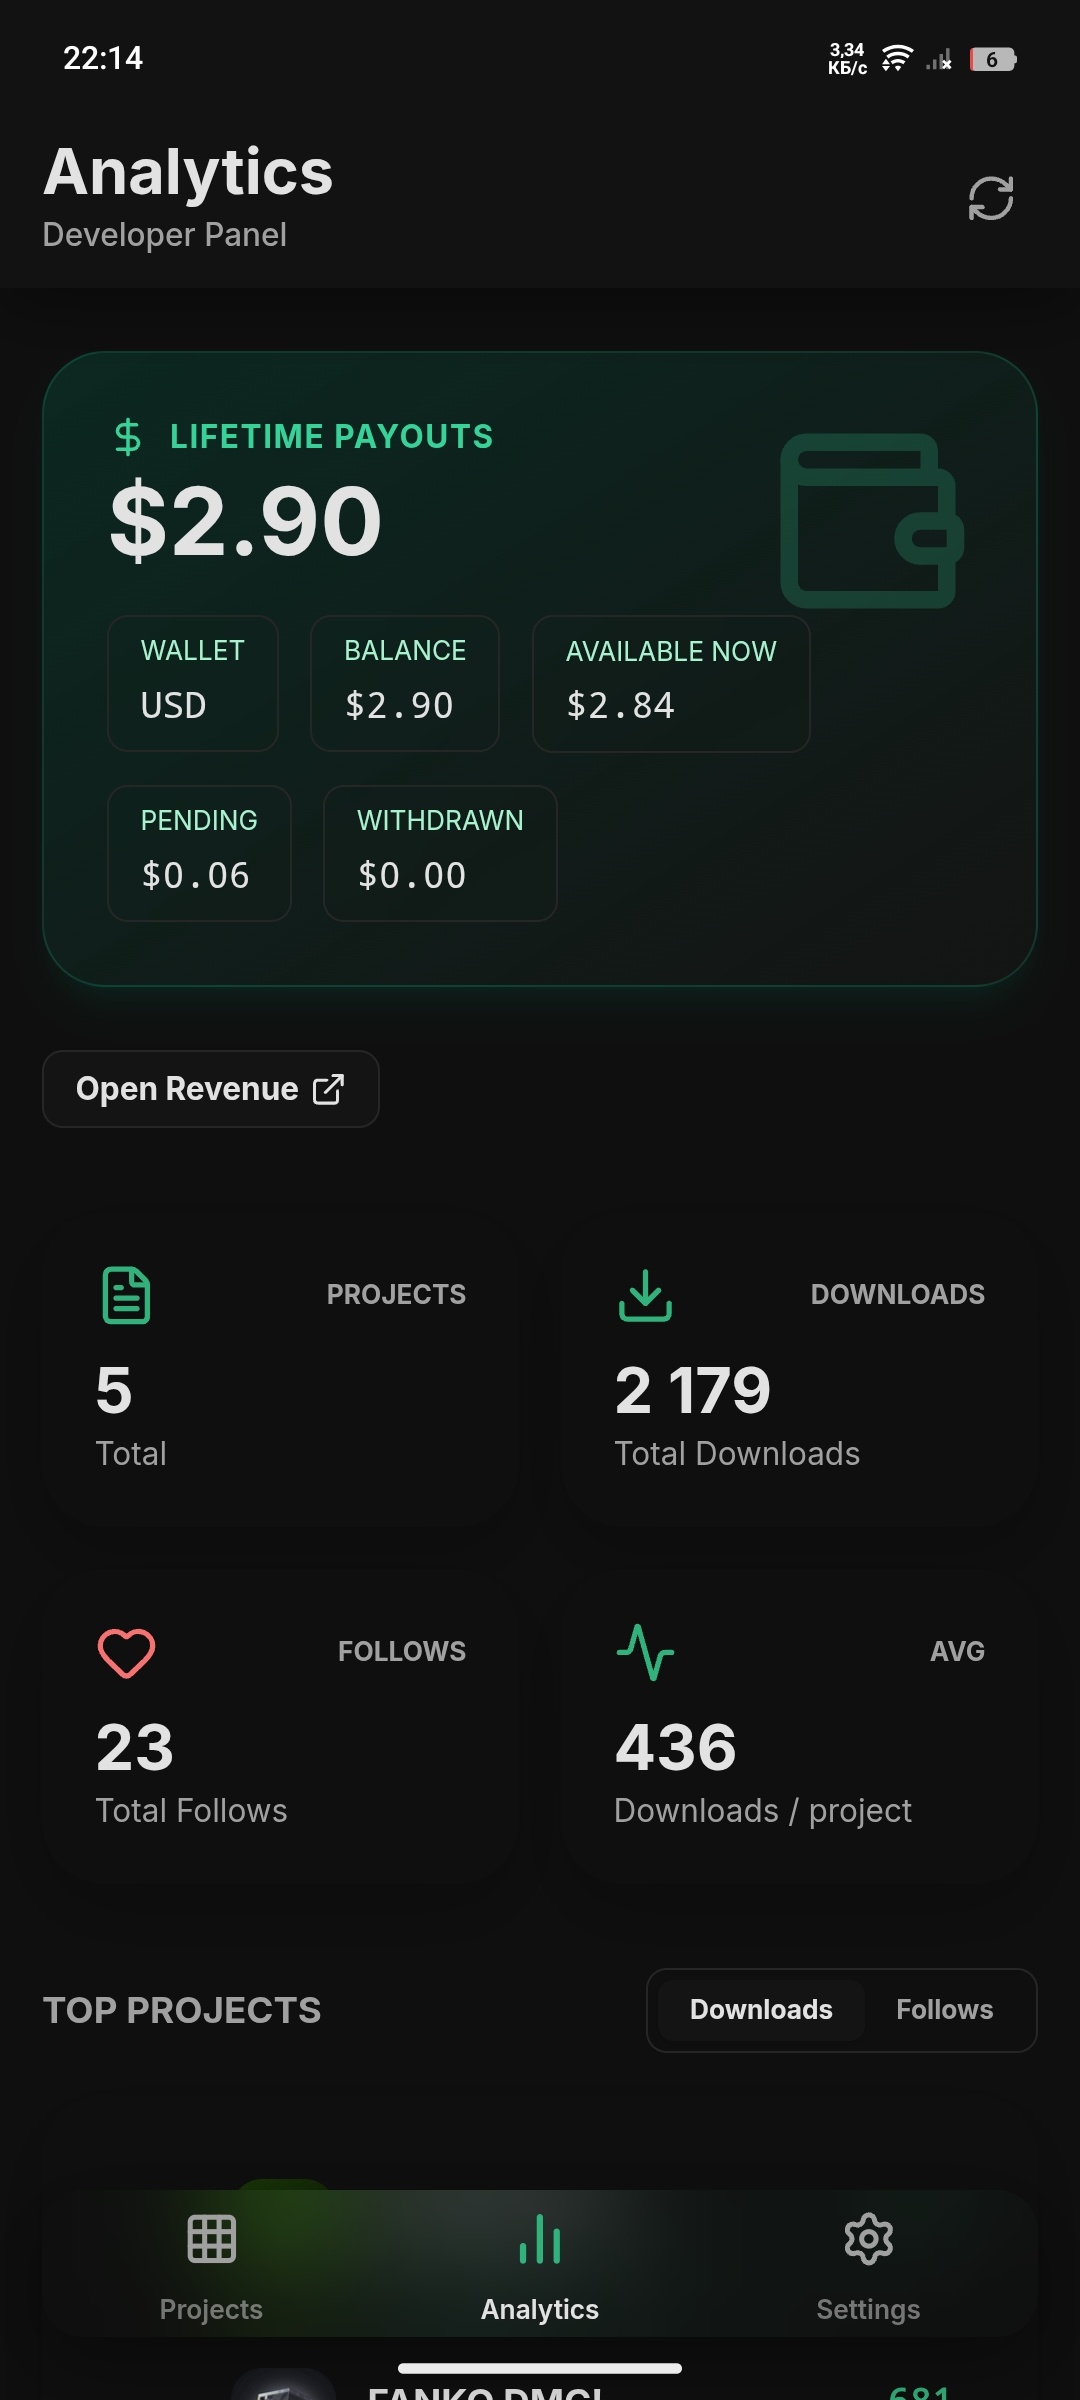
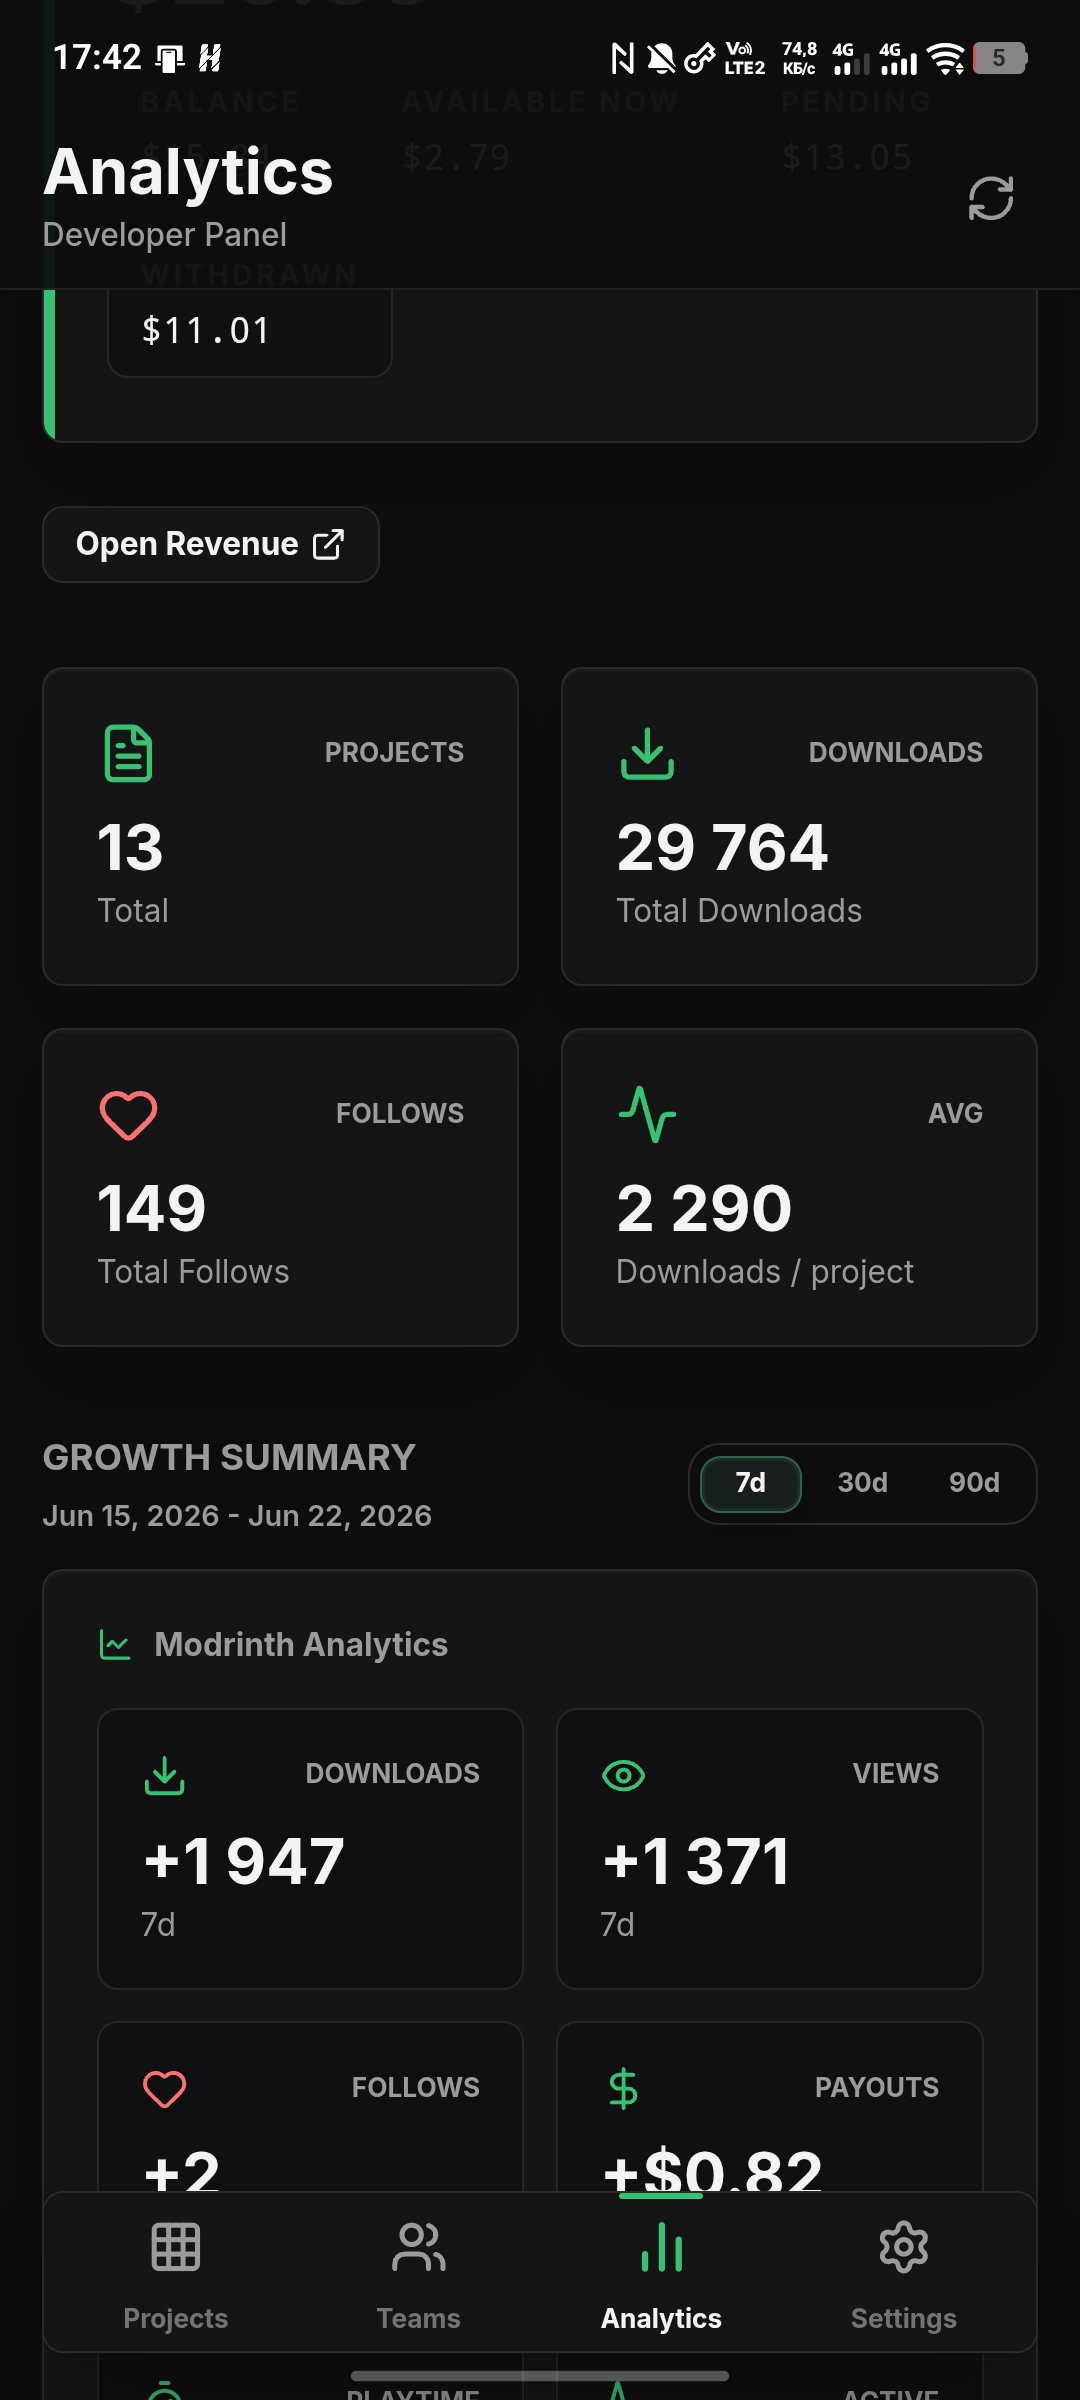
Update README for Rinthy 2.1

diff --git a/README.md b/README.md
@@ -2,133 +2,149 @@
 
 <div align="center">
   <img src="./public/logo.png" width="128" height="128" alt="Rinthy" />
+  <p><strong>A mobile Modrinth dashboard for creators.</strong></p>
+  <p>Manage projects, teams, versions, notifications, and analytics from your phone.</p>
 </div>
 
-# **EN**
-
-Rinthy is a mobile app for Modrinth developers.
-
-It helps you manage your projects and check analytics right from your phone.
-
-**Disclaimer:** Unofficial app for Modrinth. Not affiliated with or endorsed by Modrinth.
+> Rinthy is an unofficial app for Modrinth. It is not affiliated with, endorsed by, or maintained by Modrinth.
 
 ## Screenshots
 
 <div align="center">
-  <img src="./docs/screenshots/login.png" width="280" alt="Login" />
-  <img src="./docs/screenshots/developer-panel.png" width="280" alt="Developer Panel" />
-  <img src="./docs/screenshots/analytics.png" width="280" alt="Analytics" />
+  <img src="./docs/screenshots/developer-panel.png" width="220" alt="Developer panel" />
+  <img src="./docs/screenshots/teams.png" width="220" alt="Teams and organizations" />
+  <img src="./docs/screenshots/analytics.png" width="220" alt="Analytics" />
+  <img src="./docs/screenshots/glass-theme.png" width="220" alt="Glass theme" />
 </div>
 
-## Features
+## What Rinthy Can Do
 
-- **Projects dashboard** (your projects list)
-- **Project editing** (title/summary/description, links, status)
-- **Project team management** (members)
-- **Versions management** (view/edit versions)
-- **Analytics overview** (downloads/follows)
-- **Notifications** (unread notifications)
-- **Profile editing** (username, bio, avatar)
-- **Appearance settings** (theme, accent color)
-- **RU/EN language support**
-- **Balance view**
+- View and manage your Modrinth projects.
+- Create projects and edit project metadata, links, descriptions, status, icons, and gallery images.
+- Manage versions, loaders, game versions, dependencies, and version metadata.
+- Work with teams and organizations, including members, permissions, invites, ownership, and organization projects.
+- Open related projects directly from notifications.
+- View analytics for downloads, views, playtime, revenue, trends, and per-project performance.
+- Check balance and payout history where Modrinth exposes that data.
+- Edit your Modrinth profile, avatar, bio, and account details.
+- Customize the app with themes, accent colors, language settings, and the newer glass theme.
+- Use the app in English, Russian, and other community-contributed languages.
 
-## Getting started (Local development)
+## Downloads
+
+Android builds are published as APK files in GitHub Releases.
+
+iOS builds are distributed as an unsigned IPA for sideloading. To install the iOS app, use Sideloadly on a computer, sign in to iCloud on Apple's official iCloud app/site, connect your iPhone with a cable, install the IPA, then trust the developer profile in iPhone settings and enable Developer Mode if iOS asks.
+
+## Authentication
+
+Rinthy uses Modrinth OAuth for normal sign-in. PAT login is still available as a fallback for development or recovery.
+
+Tokens are stored locally on your device.
+
+## Local Development
 
 ### Requirements
 
 - Node.js
-- Android Studio (for Android builds)
+- Android Studio for Android builds
+- Xcode or a macOS build service for iOS builds
 
-### Install
+### Install Dependencies
 
 ```bash
 npm install
 ```
 
-### Run in browser (dev)
+### Run In Browser
 
 ```bash
 npm run dev
 ```
 
-## Android build (Capacitor)
+### Typecheck
 
-### Build web bundle
+```bash
+npm run typecheck
+```
+
+### Build Web App
 
 ```bash
 npm run build
 ```
 
-### Sync assets to Android
+## Android Build
 
 ```bash
+npm run build
 npx cap sync android
-```
-
-If you changed Android deep link settings for OAuth, run sync again before opening Android Studio.
-
-### Open Android Studio
-
-```bash
 npx cap open android
 ```
 
-### Run on device
+Then run the app from Android Studio.
 
-From Android Studio: **Run**
+## iOS Build
 
-## Authentication
+```bash
+npm run build
+npx cap sync ios
+npx cap open ios
+```
 
-Rinthy uses **Modrinth OAuth** as the primary sign-in method.
-
-- Deploy the companion auth backend to Vercel
-- Configure the Modrinth application redirect URI to your backend callback
-- Sign in with the `Continue with Modrinth` button in the app
-
-PAT login is still available as a fallback.
-
-**Security note:** the token is stored locally on your device.
+For sideloading, build or download the unsigned IPA and install it with Sideloadly.
 
 ---
 
 # Русский
 
-Rinthy — это мобильное приложение для разработчиков на Modrinth.
+Rinthy — неофициальное мобильное приложение для авторов на Modrinth.
 
-С помощью Rinthy можно управлять проектами и смотреть аналитику прямо с телефона.
-
-**Дисклеймер:** неофициальное приложение для Modrinth. Не связано с Modrinth и не поддерживается ими.
+С ним можно управлять проектами, версиями, командами, организациями, уведомлениями и аналитикой прямо с телефона.
 
 ## Скриншоты
 
 <div align="center">
-  <img src="./docs/screenshots/login.png" width="280" alt="Login" />
-  <img src="./docs/screenshots/developer-panel.png" width="280" alt="Developer Panel" />
-  <img src="./docs/screenshots/analytics.png" width="280" alt="Analytics" />
+  <img src="./docs/screenshots/developer-panel.png" width="220" alt="Панель разработчика" />
+  <img src="./docs/screenshots/teams.png" width="220" alt="Команды и организации" />
+  <img src="./docs/screenshots/analytics.png" width="220" alt="Аналитика" />
+  <img src="./docs/screenshots/glass-theme.png" width="220" alt="Glass тема" />
 </div>
 
 ## Возможности
 
-- **Список проектов**
-- **Редактирование проекта** (название/краткое описание/описание, ссылки, статус)
-- **Управление командой проекта** (участники)
-- **Управление версиями** (просмотр/редактирование)
-- **Аналитика** (загрузки/подписки)
-- **Уведомления**
-- **Редактирование профиля** (ник, био, аватар)
-- **Настройки внешнего вида** (тема, основной цвет)
-- **Поддержка RU/EN**
-- **Просмотр баланса**
+- Просмотр и управление проектами Modrinth.
+- Создание проектов и редактирование метаданных, ссылок, описаний, статуса, иконок и галереи.
+- Управление версиями, загрузчиками, версиями игры, зависимостями и метаданными релизов.
+- Работа с командами и организациями: участники, права, приглашения, владелец и проекты организации.
+- Переход в связанные проекты прямо из уведомлений.
+- Аналитика по загрузкам, просмотрам, playtime, доходу, трендам и отдельным проектам.
+- Просмотр баланса и истории выплат, если эти данные доступны через Modrinth.
+- Редактирование профиля, аватара, био и данных аккаунта.
+- Темы, акцентные цвета, выбор языка и обновлённая glass-тема.
+- Поддержка русского, английского и других языков, которые помогает добавлять сообщество.
 
-## Запуск локально
+## Установка
+
+Android-версия публикуется APK-файлом в GitHub Releases.
+
+iOS-версия доступна как unsigned IPA для sideloading. Чтобы установить её на iPhone, нужен Sideloadly на ПК, вход в iCloud через официальный iCloud от Apple, iPhone по проводу, установка IPA через Sideloadly, доверие профилю разработчика в настройках iPhone и Developer Mode, если iOS попросит его включить.
+
+## Авторизация
+
+Основной вход работает через Modrinth OAuth. PAT-вход оставлен как запасной вариант для разработки или восстановления доступа.
+
+Токены хранятся локально на устройстве.
+
+## Локальный запуск
 
 ### Требования
 
 - Node.js
-- Android Studio (для сборки Android)
+- Android Studio для Android-сборок
+- Xcode или macOS build service для iOS-сборок
 
-### Установка
+### Установка зависимостей
 
 ```bash
 npm install
@@ -140,36 +156,34 @@ npm install
 npm run dev
 ```
 
-## Сборка Android (Capacitor)
+### Проверка TypeScript
 
-### Сборка web
+```bash
+npm run typecheck
+```
+
+### Сборка web-приложения
 
 ```bash
 npm run build
 ```
 
-### Синхронизация в Android
+## Android-сборка
 
 ```bash
+npm run build
 npx cap sync android
-```
-
-Если менял Android deep link для OAuth, снова выполни sync перед открытием Android Studio.
-
-### Открыть Android Studio
-
-```bash
 npx cap open android
 ```
 
-## Авторизация
+После этого приложение можно запускать из Android Studio.
 
-Основной вход в Rinthy теперь работает через **Modrinth OAuth**.
+## iOS-сборка
 
-Вход по PAT оставлен как запасной вариант.
+```bash
+npm run build
+npx cap sync ios
+npx cap open ios
+```
 
-- Открой: https://modrinth.com/settings/pats
-- Создай новый токен
-- Выдай нужные права, если хочешь использовать PAT fallback
-
-**Важно:** токен хранится локально на устройстве.
+Для sideloading можно собрать или скачать unsigned IPA и установить его через Sideloadly.